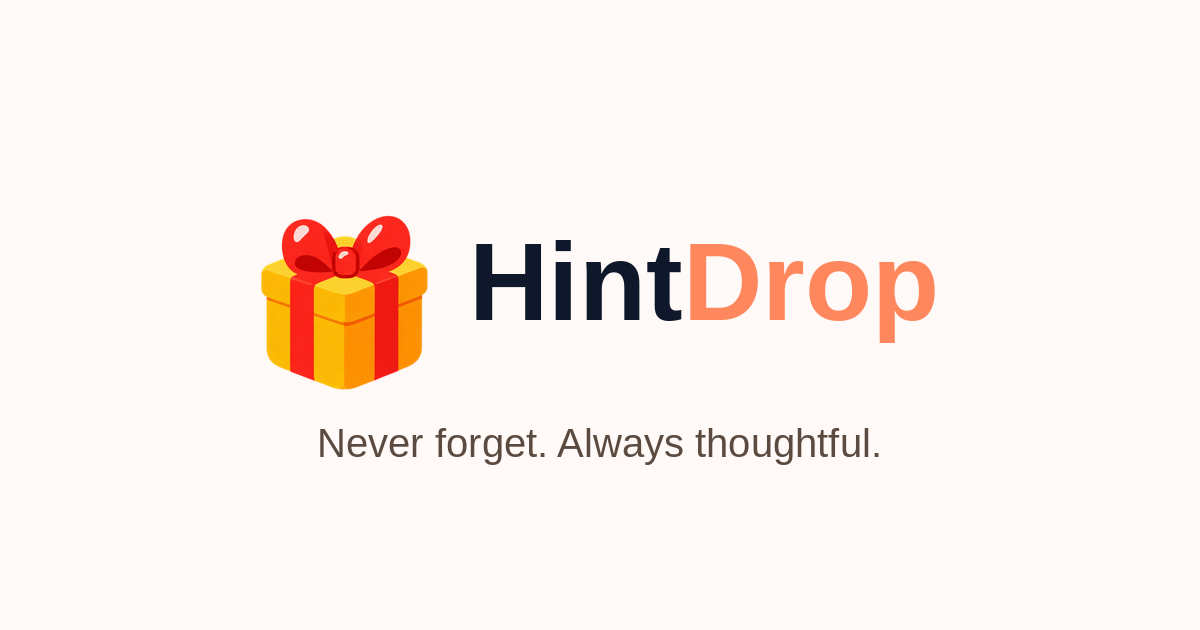
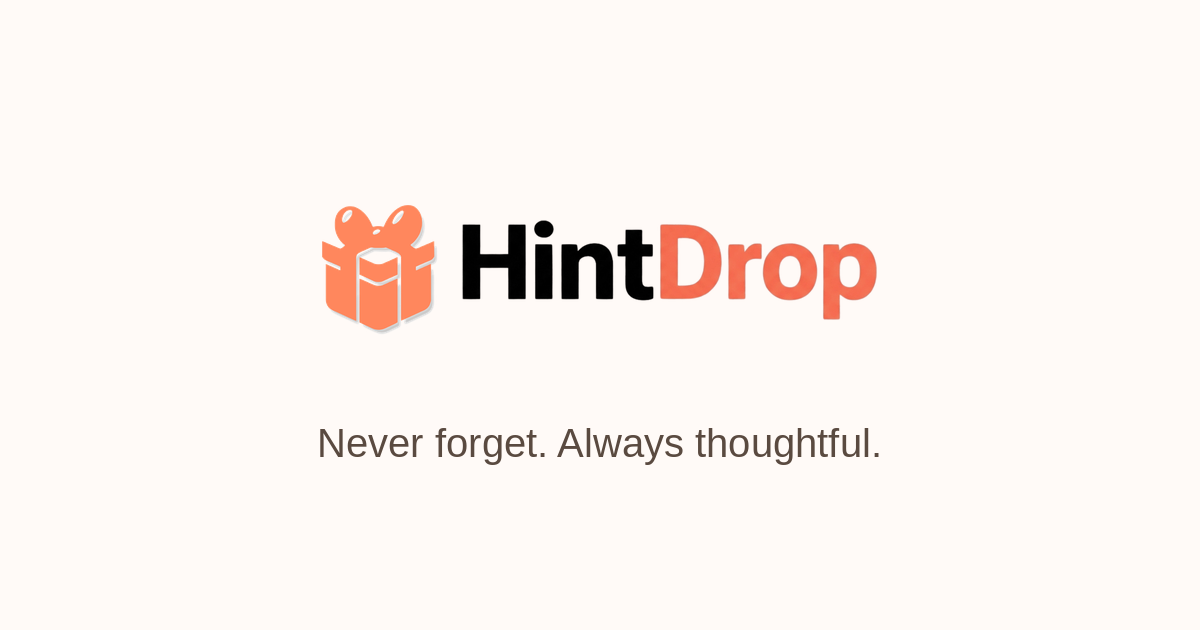
Use the new wordmark PNG directly, Poppins Bold sitewide replacing Arial
Wordmark: extracted the new reference image (found and fixed a real
bug in my own extraction along the way - a hard alpha cutoff was
still leaving genuinely gray antialiased pixels fully opaque without
color-correcting them, creating a visible fringe; fixed by detecting
the correct per-pixel foreground reference - black or orange,
whichever the pixel is actually blending toward - before
decontaminating, verified clean against both dark and site
backgrounds afterward). Replaced the live Hint+Drop text spans
entirely with this single image across all four instances, per
request to use the PNG directly rather than recreate it as styled
text.

Font: re-added Poppins, this time at Bold (700) specifically rather
than the ExtraBold/Black weights tried earlier that were flagged as
too heavy. Made it the sitewide font (--font-sans and body), replacing
Arial per this request - Arial kept only as the fallback if Poppins
somehow fails to load. Also loaded weight 800 alongside, since a
couple of existing font-extrabold usages elsewhere (Hints pages)
would otherwise fall back to synthetic bold rather than a real loaded
weight. Adjusted the homepage H1's weight class and tracking to match
what's actually loaded and the reference image's proportions.

Rebuilt the OG image to composite the icon with this same new
wordmark PNG instead of the old separately-rendered text, for
consistency.

Changed region(s): [[0.2158, 0.3317, 0.8017, 0.6333]]

diff --git a/app/layout.js b/app/layout.js
@@ -1,4 +1,4 @@
-import { Nunito } from "next/font/google";
+import { Nunito, Poppins } from "next/font/google";
 import Script from "next/script";
 
 const nunito = Nunito({
@@ -9,6 +9,18 @@ const nunito = Nunito({
 import "./globals.css";
 import { PreferencesProvider } from "./providers/PreferencesProvider";
 import AppShell from "./components/AppShell";
+
+// Sitewide font, per request to match the uploaded reference logo/H1
+// image. No font name or file was available for that reference either
+// - this is a visual best match (bold geometric sans, rounded dot on
+// the "i"), at Bold (700) specifically rather than the ExtraBold/Black
+// weights tried earlier, since that heavier weight was flagged as too
+// heavy previously.
+const poppins = Poppins({
+  subsets: ["latin"],
+  weight: ["400", "600", "700", "800"],
+  variable: "--font-poppins",
+});
 
 export const metadata = {
   icons: {
@@ -48,7 +60,7 @@ export const metadata = {
 export default function RootLayout({ children }) {
   return (
     <html lang="en">
-      <body className={`${nunito.variable} antialiased`}>
+      <body className={`${nunito.variable} ${poppins.variable} antialiased`}>
         {/* Auto-affiliate link rewriting (Skimlinks) — was only loaded on
             /shop, meaning every outbound retailer link anywhere else in the
             app (gift-shop, hints, hint detail modals, shared hint/board

diff --git a/app/components/HomePageClient.jsx b/app/components/HomePageClient.jsx
@@ -212,9 +212,8 @@ function LandingLogo() {
           corporate. */}
       {/* eslint-disable-next-line @next/next/no-img-element */}
       <img src="/illustrations/giftbox-icon-v2.png" alt="" width={44} height={52} className="object-contain" />
-      <div className="text-[22px] font-bold tracking-[0em] text-slate-900" style={{ fontFamily: "Arial, Helvetica, sans-serif" }}>
-        Hint<span className="text-[#ff875d]">Drop</span>
-      </div>
+      {/* eslint-disable-next-line @next/next/no-img-element */}
+      <img src="/illustrations/wordmark-final.png" alt="HintDrop" className="h-8 w-auto" />
     </div>
   );
 }
@@ -584,7 +583,7 @@ export default function HomePageClient() {
               </span>
             </div>
 
-            <h1 className="mt-7 max-w-[580px] text-[48px] font-extrabold leading-[0.98] tracking-[-0.065em] text-slate-900 sm:text-[64px] lg:text-[82px]" >
+            <h1 className="mt-7 max-w-[580px] text-[48px] font-bold leading-[0.98] tracking-[-0.02em] text-slate-900 sm:text-[64px] lg:text-[82px]" >
               Never forget.
               <br />
               <span className="text-[#ff8060]">Always thoughtful.</span>

diff --git a/app/components/PublicShell.jsx b/app/components/PublicShell.jsx
@@ -19,9 +19,8 @@ export default function PublicShell({ children }) {
         <div className="mx-auto flex max-w-[1380px] items-center justify-between px-5 py-4 md:px-8">
           <Link href="/" className="flex items-center gap-3">
             <LogoMark />
-            <div className="text-[22px] font-bold tracking-[0em] text-slate-900" style={{ fontFamily: "Arial, Helvetica, sans-serif" }}>
-              Hint<span className="text-[#ff875d]">Drop</span>
-            </div>
+            {/* eslint-disable-next-line @next/next/no-img-element */}
+            <img src="/illustrations/wordmark-final.png" alt="HintDrop" className="h-8 w-auto" />
           </Link>
           <div className="flex items-center gap-3">
             <Link href="/gift-shop" className="hidden md:flex items-center gap-1.5 rounded-full px-4 py-2 text-[13px] font-semibold text-slate-600 border border-[#ead8ce] hover:bg-[#fff5f0] transition">

diff --git a/app/unsubscribe/UnsubscribeClient.jsx b/app/unsubscribe/UnsubscribeClient.jsx
@@ -92,9 +92,8 @@ export default function UnsubscribeClient() {
         <div className="flex items-center gap-2 mb-6">
           {/* eslint-disable-next-line @next/next/no-img-element */}
           <img src="/illustrations/giftbox-icon-v2.png" alt="" width={28} height={28} className="object-contain" />
-          <span className="text-[18px] font-bold tracking-[0em] text-slate-900" style={{ fontFamily: "Arial, Helvetica, sans-serif" }}>
-            Hint<span className="text-[#ff875d]">Drop</span>
-          </span>
+          {/* eslint-disable-next-line @next/next/no-img-element */}
+          <img src="/illustrations/wordmark-final.png" alt="HintDrop" className="h-6 w-auto" />
         </div>
 
         {status === "loading" && (

diff --git a/app/components/AppShell.jsx b/app/components/AppShell.jsx
@@ -495,9 +495,8 @@ export default function AppShell({ children }) {
         <div className="mx-auto flex max-w-[1380px] items-center justify-between px-5 py-4 md:px-8">
           <Link href="/feed" className="flex items-center gap-3">
             <LogoMark />
-            <div className="text-[22px] font-bold tracking-[0em] text-slate-900" style={{ fontFamily: "Arial, Helvetica, sans-serif" }}>
-              Hint<span className="text-[#ff875d]">Drop</span>
-            </div>
+            {/* eslint-disable-next-line @next/next/no-img-element */}
+            <img src="/illustrations/wordmark-final.png" alt="HintDrop" className="h-8 w-auto" />
           </Link>
 
           <div className="flex items-center gap-3 sm:gap-4">

diff --git a/app/globals.css b/app/globals.css
@@ -8,7 +8,7 @@
 @theme inline {
   --color-background: var(--background);
   --color-foreground: var(--foreground);
-  --font-sans: Arial, Helvetica, sans-serif;
+  --font-sans: var(--font-poppins), Arial, Helvetica, sans-serif;
   --font-mono: ui-monospace, "SF Mono", Menlo, Consolas, monospace;
 }
 
@@ -20,7 +20,7 @@ html {
 body {
   background: var(--background);
   color: var(--foreground);
-  font-family: Arial, Helvetica, sans-serif;
+  font-family: var(--font-poppins), Arial, Helvetica, sans-serif;
   -webkit-font-smoothing: antialiased;
   -moz-osx-font-smoothing: grayscale;
   text-rendering: optimizeLegibility;
